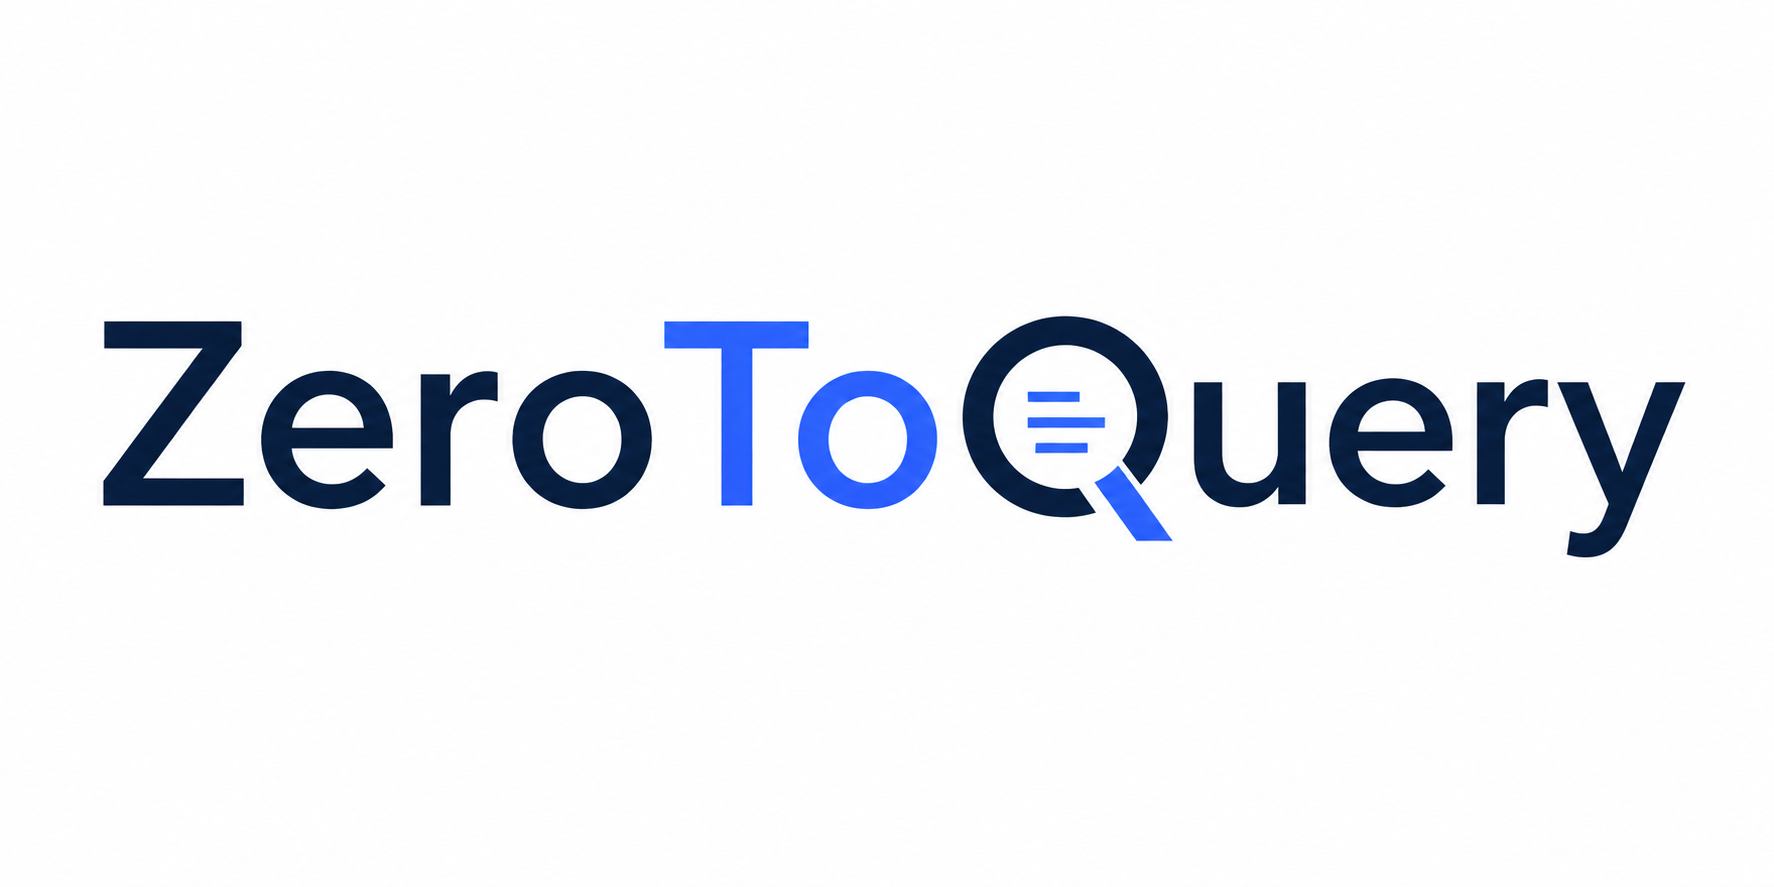
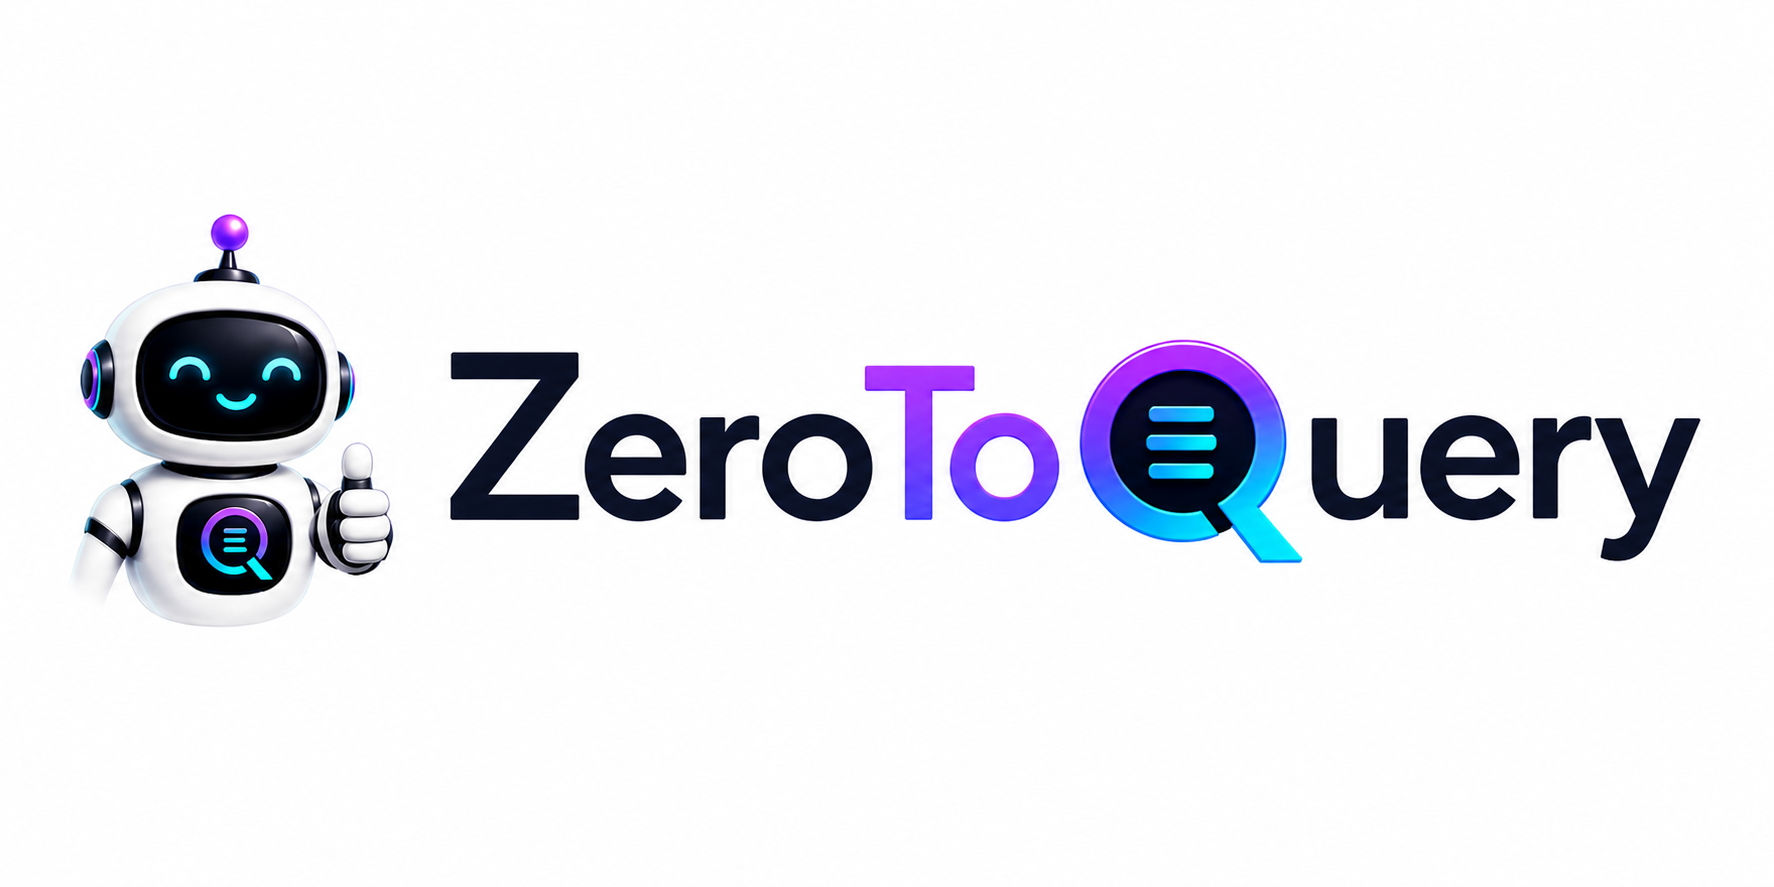
Final version - ZeroToQuery

Changed region(s): [[0.031, 0.2435, 0.9611, 0.7001]]

diff --git a/app.py b/app.py
@@ -7,28 +7,65 @@ load_dotenv()
 
 client = anthropic.Anthropic(api_key=os.getenv("ANTHROPIC_API_KEY"))
 
+st.set_page_config(
+    page_title="ZeroToQuery",
+    page_icon="🔍",
+    layout="centered"
+)
+
+st.markdown("""
+    <style>
+    .stButton button {
+        font-weight: 700 !important;
+        letter-spacing: 0.03em !important;
+        font-size: 15px !important;
+    }
+    h3 {
+        font-size: 1.4rem !important;
+    }
+    </style>
+""", unsafe_allow_html=True)
+
 with st.sidebar:
     st.markdown("### About ZeroToQuery")
     st.write("ZeroToQuery helps business analysts and non-technical users generate SQL queries from plain language descriptions.")
     st.markdown("### How to Use")
-    st.write("1. Describe what data you need in plain English")
+    st.write("1. Describe What Data You Need (English)")
     st.write("2. Click Generate SQL Query")
-    st.write("3. Copy and run your query")
+    st.write("3. Copy and Run Your Query")
     st.markdown("### Example Prompts")
-    st.write("- Show me total revenue by region for Q1 2024")
-    st.write("- List all customers who have not placed an order in 90 days")
-    st.write("- Find the top 5 products by units sold last month")
-st.image("ZeroToQuery (Light).png", width=800)
+    st.write("- Show Me Total Revenue by Region for Q1 2024")
+    st.write("- List All Customers Who Have Not Placed an Order in 90 Days")
+    st.write("- Find the Top 5 Products by Units Sold Last Month")
+    st.image("ZTQ Bot.png", use_container_width=True)
+
+st.image("ZeroToQuery (Light).png", width=480)
 st.markdown("#### From Question to Query in Seconds.")
 st.markdown("---")
 
+st.markdown("**Describe What Data You Need (English):**")
+
+if "user_input" not in st.session_state:
+    st.session_state.user_input = ""
+
 user_input = st.text_area(
-    "Describe what data you need in plain English:",
-    placeholder="Example: Show me the top 10 customers by total sales in 2024",
-    height=150
+    label="",
+    placeholder="Example: Show Me the Top 10 Customers by Total Sales in 2024",
+    height=150,
+    value=st.session_state.user_input
 )
 
-if st.button("Generate SQL Query"):
+col1, col2 = st.columns([1, 1])
+
+with col1:
+    generate = st.button("Generate SQL Query", use_container_width=True)
+
+with col2:
+    if st.button("Clear", use_container_width=True):
+        st.session_state.user_input = ""
+        st.rerun()
+
+if generate:
     if user_input.strip() == "":
         st.warning("Please describe what data you need first.")
     else:
@@ -39,7 +76,7 @@ if st.button("Generate SQL Query"):
                 messages=[
                     {
                         "role": "user",
-                        "content": f"""You are a SQL expert assistant. A business user has described what data they need in plain English. 
+                        "content": f"""You are a SQL expert assistant. A business user has described what data they need in plain English.
 Your job is to:
 1. Write a clean, ready-to-run SQL query that retrieves what they need
 2. Provide a plain English explanation of what the query does
@@ -67,6 +104,8 @@ EXPLANATION:
 
             st.subheader("Your SQL Query")
             st.code(sql_part, language="sql")
+
+            st.button("📋 Copy Query", on_click=lambda: st.write(""), help="Copy the query above to your clipboard")
 
             st.subheader("What This Query Does")
             st.write(explanation_part)

diff --git a/README.md b/README.md
@@ -69,13 +69,26 @@ ZeroToQuery is best used as a starting point that accelerates the query writing 
 
 ---
 
-## Artifact Snapshot
+### Artifact Snapshot
+
+### Demo
+![ZeroToQuery Demo](demo.gif)
 
 ### Application Interface
 ![App Interface](screenshots/app_interface.png)
 
 ### Sample Output
 ![Sample Output](screenshots/sample_output.png)
+
+### Clean Query Output
+![Clean Output](screenshots/clean_output.png)
+
+### ZeroToQuery Mascot
+The ZeroToQuery bot mascot appears in the sidebar, representing the tool's mission to make SQL accessible to everyone.
+
+![ZTQ Bot](ZTQ%20Bot.png)
+
+---
 
 ---
 
@@ -100,3 +113,19 @@ cd ZeroToQuery
 2. Click Generate SQL Query
 3. Copy the generated query and adjust table and column names to match your database
 4. Run the query in your SQL environment
+
+## Future Improvements
+
+- **Database Schema Input** — Allow users to paste their actual table and column names so generated queries match their real database structure without manual adjustment
+- **SQL Dialect Selector** — Support multiple SQL dialects including Snowflake, PostgreSQL, MySQL, and SQL Server so queries are environment-ready out of the box
+- **Query History** — Save and display recent queries within a session so users can reference or reuse previous results
+- **Query Validation** — Add a layer that checks generated queries for common syntax errors before displaying them to the user
+- **Export to Excel** — Allow users to download query results directly to Excel for reporting workflows
+- **Natural Language Follow-up** — Allow users to refine a generated query by describing changes in plain English without starting over
+
+## Built With
+
+- [Python](https://www.python.org/)
+- [Streamlit](https://streamlit.io/)
+- [Anthropic Claude API](https://www.anthropic.com/)
+- [python-dotenv](https://pypi.org/project/python-dotenv/)
